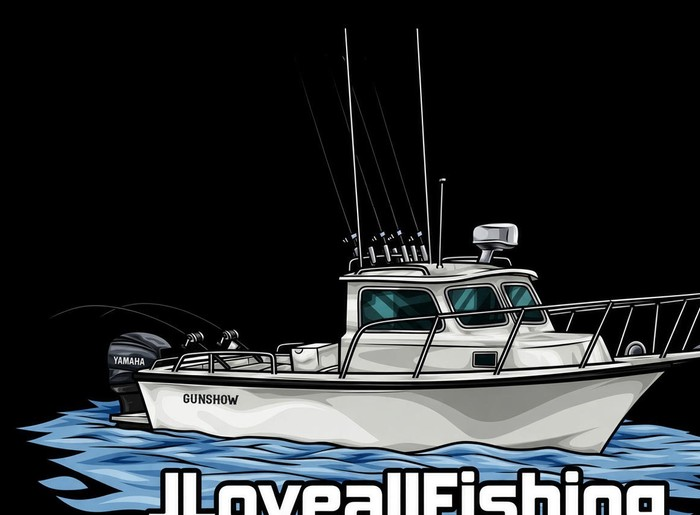
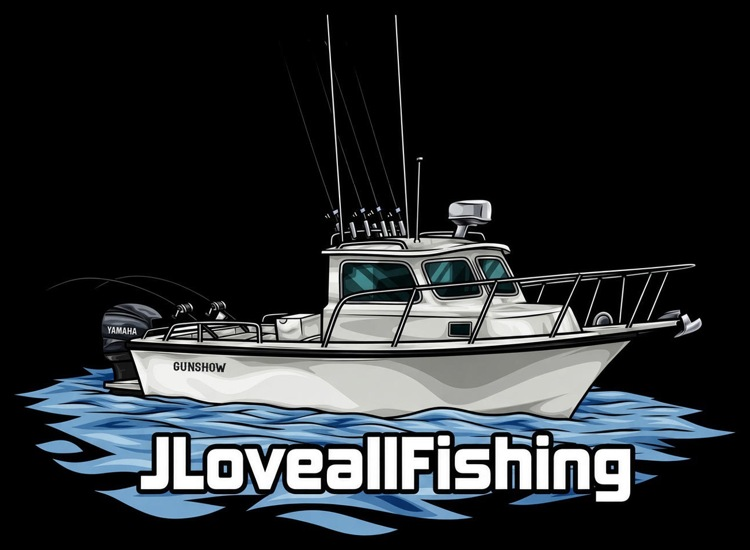
Add files via upload

diff --git a/index.html b/index.html
@@ -1,2 +1,3 @@
-<!doctype html><html lang="en"><meta charset="utf-8"><meta name="viewport" content="width=device-width, initial-scale=1"><link rel="manifest" href="manifest.webmanifest"><link rel="apple-touch-icon" href="icon-192.png?v=5"><link rel="icon" href="icon-192.png?v=5"><meta name="apple-mobile-web-app-title" content="MarineCast"><meta name="theme-color" content="#081c2b"><meta name="apple-mobile-web-app-capable" content="yes"><title>JLoveallFishing MarineCast</title><style> *{box-sizing:border-box}body{margin:0;background:#081c2b;color:#eaf5fa;font:16px system-ui}main{max-width:900px;margin:auto;padding:24px}h1{font-size:28px;margin:0}p{color:#a9c4d2;line-height:1.5}section{background:#112e40;border:1px solid #25495c;border-radius:16px;padding:18px;margin:14px 0}label{display:block;margin:10px 0 4px}select,input,button{font:inherit;border-radius:8px;padding:12px;border:1px solid #426577;background:#0b2232;color:white;width:100%}button{background:#087e91;font-weight:bold;margin-top:12px;cursor:pointer}a{color:#82e0ed}h2{font-size:19px;margin-top:0}.grid{display:grid;grid-template-columns:repeat(auto-fit,minmax(130px,1fr));gap:12px}.metric{background:#0b2232;padding:12px;border-radius:10px}.metric b{display:block;font-size:23px;margin:5px 0}table{width:100%;border-collapse:collapse;font-size:14px}td,th{text-align:left;padding:9px 4px;border-bottom:1px solid #315063}svg{width:100%;height:auto}.muted{color:#a9c4d2;font-size:13px}.warn{color:#ffd49a} input,select,.grid>div{min-width:0;max-width:100%}input[type=date],input[type=time]{appearance:none;-webkit-appearance:none;display:block}section{min-width:0;overflow-wrap:anywhere}table{font-size:clamp(11px,3.2vw,14px)}@media(max-width:480px){main{padding:14px}section{padding:13px}.grid{grid-template-columns:repeat(2,minmax(0,1fr))}} .nav{position:sticky;top:0;z-index:1000;display:flex;gap:6px;background:#081c2b;padding:8px 0;overflow:auto}.nav a{white-space:nowrap;font-size:13px;padding:9px;text-decoration:none;background:#112e40;border-radius:8px}section{scroll-margin-top:65px} .brand{text-align:center}.brand img{display:block;width:min(100%,330px);height:auto;margin:0 auto 8px;border-radius:12px}.brand p{margin:4px 0}.metric b{overflow-wrap:anywhere}</style><main><header class="brand"><img src="brand.jpg" alt="JLoveallFishing boat logo"><h1>Marine<span style="color:#64d7df">Cast</span></h1><p>Wind. Tides. Currents. Fish smarter.</p></header><p>Bay & Delta fishing conditions • Pacific time • Version 0.5 • Live-source prototype</p><nav class="nav"><a href="#overview">Home</a><a href="#locations">Map</a><a href="#tides">Tides</a><a href="#currents">Currents</a><a href="#forecast">Weather</a></nav><section id="overview"><h2>Trip overview</h2><div id="summary" class="grid">Loading…</div><p class="muted">Forecasts, not safety ratings.</p></section><section id="locations"><div id="map" style="height:310px;border-radius:12px;background:#0b2232"></div><p class="muted">Select a marker or use the location list. Map is for planning, not navigation.</p><label for="spot">Fishing area</label><select id="spot"></select><button id="favorite" type="button">Save favorite</button><div id="favorites"></div><label for="day">Trip date</label><input id="day" type="date"><label for="current">NOAA current prediction station</label><select id="current"><option value="">Choose a station after loading</option></select><div class="grid"><div><label for="start">Trip starts</label><input type="time" id="start" value="06:00"></div><div><label for="end">Trip ends</label><input type="time" id="end" value="14:00"></div><div><label for="limit">Wind preference (mph)</label><input type="number" id="limit" min="1" max="100" value="17"></div></div><button id="load">Refresh conditions</button><p class="muted" id="status" aria-live="polite"></p></section><section id="tides"><h2>Tides · NOAA predictions</h2><div id="tide">Loading…</div></section><section id="currents"><h2>Currents · NOAA predictions</h2><div id="flow">Loading…</div></section><section id="forecast"><h2>Wind & weather · NWS forecast</h2><div id="weather">Loading…</div></section><section><h2>Trip wind preference check</h2><div id="trip">Loading…</div><p class="muted">Not a safety rating. Does not account for swell, vessel limits or wind against current.</p><a href="https://www.windy.com/" target="_blank" rel="noopener">Open Windy for comparison</a></section><section><h2>Official weather alerts</h2><div id="alerts">Loading…</div><p><a href="https://www.weather.gov/mtr/">NWS Bay Area marine forecasts</a> · <a href="https://tidesandcurrents.noaa.gov/">NOAA station maps</a></p></section><p class="warn">Planning aid only. Predictions are not observed conditions. Station readings may differ from your fishing spot. Check official marine forecasts and conditions before departure; missing data does not mean safe conditions.</p></main><link rel="stylesheet" href="https://unpkg.com/leaflet@1.9.4/dist/leaflet.css"><script src="https://unpkg.com/leaflet@1.9.4/dist/leaflet.js"></script><script>
-const $=id=>document.getElementById(id), spots=[['Richmond',37.928,-122.4,'9414863'],['San Francisco / Central Bay',37.807,-122.465,'9414290'],['Golden Gate',37.819,-122.478,''],['San Pablo Bay',38.06,-122.38,''],['Carquinez Strait / Benicia',38.05,-122.16,''],['Suisun Bay',38.08,-122.03,''],['Rio Vista',38.155,-121.69,''],['Sherman Island',38.06,-121.74,''],['Berkeley Flats',37.86,-122.35,''],['Angel Island',37.86,-122.43,''],['Alcatraz',37.827,-122.423,''],['Sacramento River near Collinsville',38.08,-121.85,''],['San Joaquin River near Antioch',38.02,-121.80,'']];const tz='America/Los_Angeles',fmt=new Intl.DateTimeFormat('en-CA',{timeZone:tz,year:'numeric',month:'2-digit',day:'2-digit'}),time=new Intl.DateTimeFormat('en-US',{timeZone:tz,hour:'numeric',minute:'2-digit'});function dateKey(d){let p=Object.fromEntries(fmt.formatToParts(d).map(x=>[x.type,x.value]));return `${p.year}-${p.month}-${p.day}`} const esc=x=>String(x??'—').replace(/[&<>"']/g,c=>({'&':'&amp;','<':'&lt;','>':'&gt;','"':'&quot;',"'":'&#39;'}[c]));$('spot').innerHTML=spots.map((s,i)=>`<option value="${i}">${s[0]}</option>`).join('');$('day').value=dateKey(new Date());$('day').min=dateKey(new Date());$('day').max=dateKey(new Date(Date.now()+6*864e5));const meta='https://api.tidesandcurrents.noaa.gov/mdapi/prod/webapi/stations.json',api='https://api.tidesandcurrents.noaa.gov/api/prod/datagetter';async function get(url){const r=await fetch(url,{signal:AbortSignal.timeout(18000)});if(!r.ok)throw Error('HTTP '+r.status);const j=await r.json();if(j.error)throw Error(j.error.message||'Source error');return j}function nearest(stations,s){return stations.filter(a=>Number.isFinite(+a.lat)&&Number.isFinite(+a.lng)&&a.lat!=null&&a.lng!=null).map(a=>({...a,dist:Math.hypot((+a.lat-s[1])*69,(+a.lng-s[2])*54)})).sort((a,b)=>a.dist-b.dist)}function clock(s){const m=String(s).match(/(\d{2}):(\d{2})/);if(!m)return s;const h=+m[1];return (h%12||12)+':'+m[2]+(h<12?' AM':' PM')}function table(headers,rows){return '<table><thead><tr>'+headers.map(x=>`<th>${esc(x)}</th>`).join('')+'</tr></thead><tbody>'+rows.map(r=>'<tr>'+r.map(x=>`<td>${esc(x)}</td>`).join('')+'</tr>').join('')+'</tbody></table>'}function no(e){return `<p class="warn">Unavailable: ${esc(e.message||e)}. Check the official source.</p>`}function mphCurrent(r){const v=r.Velocity_Major??r.Velocity;return v==null||v===''||!Number.isFinite(Number(v))?'—':(Number(v)*1.150779448).toFixed(2)}let tm,cm,run=0;async function load(){const token=++run,s=spots[+$('spot').value],day=$('day').value,d=day.replaceAll('-','');for(const id of ['tide','flow','weather','alerts','trip','summary'])$(id).textContent='Loading from official source…';$('status').textContent='Fetching '+s[0]+'…';const put=(id,v)=>{if(token===run)$(id).innerHTML=v};const query=(station,product,extra)=>api+'?'+new URLSearchParams({station,product,begin_date:d,end_date:d,time_zone:'lst_ldt',units:'english',format:'json',application:'JLoveallFishingMarineCast',...extra});await Promise.allSettled([ (async()=>{try{let station=s[3],label=s[0];if(!station){tm??=get(meta+'?type=tidepredictions').catch(e=>{tm=null;throw e});const a=nearest((await tm).stations||[],s)[0];if(!a||a.dist>20)throw Error('No nearby tide station within 20 miles');station=a.id;label=a.name+' (~'+a.dist.toFixed(1)+' mi away)'}const j=await get(query(station,'predictions',{datum:'MLLW',interval:'hilo'}));if(!j.predictions?.length)throw Error('No predictions');put('tide',`<p>${esc(label)} · ${esc(station)} · feet above MLLW</p>`+table(['Pacific time','Tide','Height'],j.predictions.map(a=>[clock(a.t),a.type==='H'?'High':'Low',a.v+' ft']))+chart(j.predictions.map(a=>[a.t,Number(a.v)]),'ft','High/low event trend (not continuous tide curve)')+`<p><a href="https://tidesandcurrents.noaa.gov/noaatidepredictions.html?id=${encodeURIComponent(station)}">Official tide station</a></p>`)}catch(e){put('tide',no(e))}})(),(async()=>{try{cm??=get(meta+'?type=currentpredictions').catch(e=>{cm=null;throw e});const list=nearest((await cm).stations||[],s).filter(a=>a.dist<=20).slice(0,12);if(token!==run)return;const previous=$('current').selectedOptions[0]?.dataset.station;$('current').innerHTML='<option value="">Select nearby current station</option>'+list.map((a,i)=>`<option value="${i}" data-station="${esc(a.id)}">${esc(a.name)} (~${a.dist.toFixed(1)} mi)</option>`).join('');const prevIndex=list.findIndex(a=>a.id===previous);if(prevIndex>=0)$('current').value=String(prevIndex);const a=list[+$('current').value];if($('current').value===''||!a){put('flow','<p>Select a current station above, then refresh. Tide height and current speed are separate predictions.</p>');return}const extra={interval:'MAX_SLACK'};if(a.currbin!=null)extra.bin=a.currbin;const j=await get(query(a.id,'currents_predictions',extra));const rows=j.current_predictions?.cp;if(!rows?.length)throw Error('No current predictions for this station/bin');put('flow',`<p>${esc(a.name)} · ${esc(a.id)} · ${a.dist.toFixed(1)} mi away · bin ${esc(extra.bin??'source default')}</p>`+table(['Pacific time','Event','Velocity (mph)'],rows.map(r=>[clock(r.Time),r.Type??'Prediction',mphCurrent(r)]))+chart(rows.map(r=>[r.Time,Number(mphCurrent(r))]),'mph','Current event trend (not continuous prediction)'))}catch(e){put('flow',no(e))}})(),(async()=>{try{const p=await get(`https://api.weather.gov/points/${s[1]},${s[2]}`);const grid=await get(p.properties.forecastGridData),g=grid.properties;function at(field,t){return field?.values?.find(v=>{let [start,dur]=v.validTime.split('/'),m=dur.match(/^P(?:(\d+)D)?(?:T(?:(\d+)H)?(?:(\d+)M)?)?$/);if(!m)return false;let st=Date.parse(start),end=st+((+(m[1]||0)*24+ +(m[2]||0))*60+ +(m[3]||0))*60000;return t>=st&&t<end})?.value}function unit(field,v){if(v==null)return '—';const u=field?.uom||'';if(u.endsWith('km_h-1'))return Math.round(v*0.621371)+' mph';if(u.endsWith('m_s-1'))return Math.round(v*2.236936)+' mph';if(u.endsWith(':m'))return (v*3.28084).toFixed(1)+' ft';if(u.endsWith(':kt')||u.endsWith(':kn'))return Math.round(v*1.150779448)+' mph';if(u.endsWith('degC'))return Math.round(v*9/5+32)+' °F';if(u.endsWith('degree_(angle)'))return ['N','NNE','NE','ENE','E','ESE','SE','SSE','S','SSW','SW','WSW','W','WNW','NW','NNW'][Math.round(v/22.5)%16]+' '+v+'°';return v+' '+u.split(':').pop()}const hours=[],trip=[];for(let t=Date.parse(day+'T00:00:00Z');t<Date.parse(day+'T00:00:00Z')+36*3600000;t+=3600000){const dt=new Date(t);if(dateKey(dt)!==day)continue;const parts=new Intl.DateTimeFormat('en-GB',{timeZone:tz,hour:'2-digit',minute:'2-digit',hourCycle:'h23'}).format(dt);if(parts >= $('start').value && parts <= $('end').value){const w=unit(g.windSpeed,at(g.windSpeed,t)), gust=unit(g.windGust,at(g.windGust,t));trip.push([w,gust]);}hours.push([time.format(dt),unit(g.windSpeed,at(g.windSpeed,t)),unit(g.windGust,at(g.windGust,t)),unit(g.windDirection,at(g.windDirection,t)),unit(g.temperature,at(g.temperature,t)),unit(g.waveHeight,at(g.waveHeight,t))])}const peak=(i)=>{const a=trip.map(r=>r[i]).filter(v=>v.endsWith(' mph')).map(parseFloat);return a.length?Math.max(...a)+' mph':'Unavailable'};put('summary',`<div class="metric">Peak wind<b>${peak(0)}</b></div><div class="metric">Peak gust<b>${peak(1)}</b></div><div class="metric">Location<b>${esc(s[0])}</b></div><div class="metric">Trip date<b>${esc(new Date(day+'T12:00:00Z').toLocaleDateString('en-US',{timeZone:'UTC',month:'short',day:'numeric',year:'numeric'}))}</b></div>`);const lim=Number($('limit').value),vals=trip.flat().filter(v=>v.endsWith(' mph')).map(parseFloat),missing=trip.length*2-vals.length;put('trip',!trip.length||!vals.length?'No matching trip forecast available.':`<p>Peak reported wind or gust: <b>${Math.max(...vals)} mph</b> · Your preference: ${lim} mph</p><p class="warn">${Math.max(...vals)>lim?'Above your wind preference': 'Reported values within preference'}${missing?' · '+missing+' wind/gust readings missing':''}. Not a boating safety determination.</p>`);put('weather',`<p>Forecast grid ${esc(p.properties.gridId)} ${esc(p.properties.gridX)},${esc(p.properties.gridY)} · missing values shown as —</p>`+chart(hours.map((r,i)=>[i,parseFloat(r[1])]),'mph','Hourly wind trend (reported forecast values)')+chart(hours.map((r,i)=>[i,parseFloat(r[2])]),'mph','Hourly gust trend (reported forecast values)')+table(['Time','Wind','Gust','From','Air','Wave'],hours))}catch(e){put('weather',no(e));put('trip',no(e));put('summary',no(e))}})(),(async()=>{try{const j=await get(`https://api.weather.gov/alerts/active?point=${s[1]},${s[2]}`);put('alerts',j.features?.length?j.features.map(a=>`<p class="warn"><b>${esc(a.properties.event)}</b><br>${esc(a.properties.headline)}</p>`).join(''):'<p>No active alerts returned for this point at retrieval time. This does not establish safe conditions.</p>')}catch(e){put('alerts',no(e))}})()]);if(token===run)$('status').textContent='Requests completed '+time.format(new Date())+' PT. Check each panel for availability.'} function chart(rows,unit,label){const a=rows.filter(r=>Number.isFinite(r[1]));if(a.length<2)return '';const lo=Math.min(0,...a.map(r=>r[1])),hi=Math.max(lo+1,...a.map(r=>r[1]));const ts=a.map(r=>typeof r[0]==='number'?NaN:Date.parse(String(r[0]).replace(' ','T')+'Z'));const valid=ts.every(Number.isFinite)&&ts.at(-1)>ts[0];const x=i=>45+270*(valid?(ts[i]-ts[0])/(ts.at(-1)-ts[0]):i/(a.length-1)),y=v=>110-85*(v-lo)/(hi-lo);return `<p class="muted">${esc(label)}</p><svg viewBox="0 0 340 135" role="img" aria-label="${esc(label)}"><line x1="45" y1="${y(0)}" x2="315" y2="${y(0)}" stroke="#658698" stroke-dasharray="4 4"/><text x="0" y="25" fill="#a9c4d2" font-size="10">${hi.toFixed(1)} ${unit}</text><text x="0" y="110" fill="#a9c4d2" font-size="10">${lo.toFixed(1)}</text><polyline fill="none" stroke="#64d7df" stroke-width="2" stroke-dasharray="4 3" points="${a.map((r,i)=>x(i)+','+y(r[1])).join(' ')}"/>${a.map((r,i)=>`<circle cx="${x(i)}" cy="${y(r[1])}" r="4" fill="#64d7df"><title>${esc(r[0])}: ${r[1]} ${unit}</title></circle>`).join('')}</svg>`}let fav=[];try{fav=JSON.parse(localStorage.getItem('marineIQfavorites')||'[]');if(!Array.isArray(fav))fav=[]}catch{}function renderFav(){$('favorites').replaceChildren();for(const i of fav){if(!spots[i])continue;const b=document.createElement('button');b.textContent=spots[i][0];b.onclick=()=>{$('spot').value=i;$('spot').onchange()};$('favorites').append(b)}$('favorite').textContent=fav.includes(+$('spot').value)?'Remove favorite':'Save favorite'}$('favorite').onclick=()=>{const i=+$('spot').value;fav=fav.includes(i)?fav.filter(x=>x!==i):[...fav,i];try{localStorage.setItem('marineIQfavorites',JSON.stringify(fav))}catch{}renderFav()};renderFav();let map;if(window.L){map=L.map('map').setView([38,-122.1],9);L.tileLayer('https://tile.openstreetmap.org/{z}/{x}/{y}.png',{maxZoom:19,attribution:'&copy; OpenStreetMap contributors'}).addTo(map);spots.forEach((s,i)=>L.marker([s[1],s[2]]).addTo(map).bindTooltip(s[0]).on('click',()=>{$('spot').value=i;$('spot').onchange()}))}else $('map').textContent='Map unavailable; use the location list.';$('load').onclick=load;$('spot').onchange=()=>{$('current').value='';renderFav();if(map)map.panTo(spots[+$('spot').value].slice(1,3));load()};$('day').onchange=load;$('current').onchange=load;load();</script><script>if("serviceWorker" in navigator && location.protocol === "https:"){navigator.serviceWorker.register("./sw.js").catch(console.warn)}</script></html>
+<!doctype html><html lang="en"><meta charset="utf-8"><meta name="viewport" content="width=device-width, initial-scale=1"><link rel="manifest" href="manifest.webmanifest"><link rel="apple-touch-icon" href="icon-192.png?v=5"><link rel="icon" href="icon-192.png?v=5"><meta name="apple-mobile-web-app-title" content="MarineCast"><meta name="theme-color" content="#081c2b"><meta name="apple-mobile-web-app-capable" content="yes"><title>JLoveallFishing MarineCast</title><style> *{box-sizing:border-box}body{margin:0;background:#081c2b;color:#eaf5fa;font:16px system-ui}main{max-width:900px;margin:auto;padding:18px}h1{font-size:28px;margin:0}p{color:#a9c4d2;line-height:1.5}section{background:#112e40;border:1px solid #25495c;border-radius:16px;padding:18px;margin:14px 0}label{display:block;margin:10px 0 4px}select,input,button{font:inherit;border-radius:8px;padding:12px;border:1px solid #426577;background:#0b2232;color:white;width:100%}button{background:#087e91;font-weight:bold;margin-top:12px;cursor:pointer}a{color:#82e0ed}h2{font-size:19px;margin-top:0}.grid{display:grid;grid-template-columns:repeat(auto-fit,minmax(130px,1fr));gap:12px}.metric{background:#0b2232;padding:12px;border-radius:10px}.metric b{display:block;font-size:23px;margin:5px 0}table{width:100%;border-collapse:collapse;font-size:14px}td,th{text-align:left;padding:9px 4px;border-bottom:1px solid #315063}svg{width:100%;height:auto}.muted{color:#a9c4d2;font-size:13px}.warn{color:#ffd49a} input,select,.grid>div{min-width:0;max-width:100%}input[type=date],input[type=time]{appearance:none;-webkit-appearance:none;display:block}section{min-width:0;overflow-wrap:anywhere}table{font-size:clamp(11px,3.2vw,14px)}@media(max-width:480px){main{padding:14px}section{padding:13px}.grid{grid-template-columns:repeat(2,minmax(0,1fr))}} .nav{position:sticky;top:0;z-index:1000;display:flex;gap:6px;background:#081c2b;padding:8px 0;overflow:auto}.nav a{white-space:nowrap;font-size:13px;padding:9px;text-decoration:none;background:#112e40;border-radius:8px}section{scroll-margin-top:65px} .brand{text-align:center}.brand img{display:block;width:min(100%,260px);height:auto;object-fit:contain;mix-blend-mode:screen;margin:0 auto 8px;border-radius:12px}.brand p{margin:4px 0}.metric b{overflow-wrap:anywhere}</style><main><header class="brand"><img src="brand.jpg?v=6" alt="JLoveallFishing boat logo"><h1>Marine<span style="color:#64d7df">Cast</span></h1><p>Wind. Tides. Currents. Fish smarter.</p></header><p>Bay & Delta fishing conditions • Pacific time • Version 0.6 • Live-source prototype</p><nav class="nav"><a href="#overview">Home</a><a href="#locations">Map</a><a href="#tides">Tides</a><a href="#currents">Currents</a><a href="#forecast">Weather</a><a href="#week">7 days</a><a href="#water">Water</a></nav><section id="overview"><h2>Trip overview</h2><div id="summary" class="grid">Loading…</div><p class="muted">Forecasts, not safety ratings.</p></section><section id="locations"><div id="map" style="height:310px;border-radius:12px;background:#0b2232"></div><p class="muted">Select a marker or use the location list. Map is for planning, not navigation.</p><label for="spot">Fishing area</label><select id="spot"></select><button id="favorite" type="button">Save favorite</button><div id="favorites"></div><label for="day">Trip date</label><input id="day" type="date"><label for="current">NOAA current prediction station</label><select id="current"><option value="">Choose a station after loading</option></select><div class="grid"><div><label for="start">Trip starts</label><input type="time" id="start" value="06:00"></div><div><label for="end">Trip ends</label><input type="time" id="end" value="14:00"></div><div><label for="limit">Wind preference (mph)</label><input type="number" id="limit" min="1" max="100" value="17"></div></div><button id="load">Refresh conditions</button><p class="muted" id="status" aria-live="polite"></p></section><section id="week"><h2>Seven-day trip forecast</h2><div id="weekly">Loading…</div><p class="muted">Peak available hourly values during your selected trip hours; partial days are labeled.</p></section><section id="water"><h2>Water observations · NOAA</h2><div id="waterdata">Loading…</div><p class="muted">Latest station observations, not predictions for your selected trip date.</p></section><section id="astro"><h2>Sun & moon</h2><div id="astrodata">Loading…</div></section><section id="tides"><h2>Tides · NOAA predictions</h2><div id="tide">Loading…</div></section><section id="currents"><h2>Currents · NOAA predictions</h2><div id="flow">Loading…</div><div id="opposition"></div></section><section id="forecast"><h2>Wind & weather · NWS forecast</h2><div id="weather">Loading…</div></section><section><h2>Trip wind preference check</h2><div id="trip">Loading…</div><p class="muted">Not a safety rating. Does not account for swell or vessel limits; see separate current-direction check.</p><a href="https://www.windy.com/" target="_blank" rel="noopener">Open Windy for comparison</a></section><section><h2>Official weather alerts</h2><div id="alerts">Loading…</div><p><a href="https://www.weather.gov/mtr/">NWS Bay Area marine forecasts</a> · <a href="https://tidesandcurrents.noaa.gov/">NOAA station maps</a></p></section><p class="warn">Planning aid only. Predictions are not observed conditions. Station readings may differ from your fishing spot. Check official marine forecasts and conditions before departure; missing data does not mean safe conditions.</p></main><link rel="stylesheet" href="https://unpkg.com/leaflet@1.9.4/dist/leaflet.css"><script src="https://unpkg.com/leaflet@1.9.4/dist/leaflet.js"></script><script>
+const $=id=>document.getElementById(id), spots=[['Richmond',37.928,-122.4,'9414863'],['San Francisco / Central Bay',37.807,-122.465,'9414290'],['Golden Gate',37.819,-122.478,''],['San Pablo Bay',38.06,-122.38,''],['Carquinez Strait / Benicia',38.05,-122.16,''],['Suisun Bay',38.08,-122.03,''],['Rio Vista',38.155,-121.69,''],['Sherman Island',38.06,-121.74,''],['Berkeley Flats',37.86,-122.35,''],['Angel Island',37.86,-122.43,''],['Alcatraz',37.827,-122.423,''],['Sacramento River near Collinsville',38.08,-121.85,''],['San Joaquin River near Antioch',38.02,-121.80,'']];const tz='America/Los_Angeles',fmt=new Intl.DateTimeFormat('en-CA',{timeZone:tz,year:'numeric',month:'2-digit',day:'2-digit'}),time=new Intl.DateTimeFormat('en-US',{timeZone:tz,hour:'numeric',minute:'2-digit'});function dateKey(d){let p=Object.fromEntries(fmt.formatToParts(d).map(x=>[x.type,x.value]));return `${p.year}-${p.month}-${p.day}`} const esc=x=>String(x??'—').replace(/[&<>"']/g,c=>({'&':'&amp;','<':'&lt;','>':'&gt;','"':'&quot;',"'":'&#39;'}[c]));$('spot').innerHTML=spots.map((s,i)=>`<option value="${i}">${s[0]}</option>`).join('');$('day').value=dateKey(new Date());$('day').min=dateKey(new Date());$('day').max=dateKey(new Date(Date.now()+6*864e5));const meta='https://api.tidesandcurrents.noaa.gov/mdapi/prod/webapi/stations.json',api='https://api.tidesandcurrents.noaa.gov/api/prod/datagetter';async function get(url){const r=await fetch(url,{signal:AbortSignal.timeout(18000)});if(!r.ok)throw Error('HTTP '+r.status);const j=await r.json();if(j.error)throw Error(j.error.message||'Source error');return j}function nearest(stations,s){return stations.filter(a=>Number.isFinite(+a.lat)&&Number.isFinite(+a.lng)&&a.lat!=null&&a.lng!=null).map(a=>({...a,dist:Math.hypot((+a.lat-s[1])*69,(+a.lng-s[2])*54)})).sort((a,b)=>a.dist-b.dist)}function clock(s){const m=String(s).match(/(\d{2}):(\d{2})/);if(!m)return s;const h=+m[1];return (h%12||12)+':'+m[2]+(h<12?' AM':' PM')}function table(headers,rows){return '<table><thead><tr>'+headers.map(x=>`<th>${esc(x)}</th>`).join('')+'</tr></thead><tbody>'+rows.map(r=>'<tr>'+r.map(x=>`<td>${esc(x)}</td>`).join('')+'</tr>').join('')+'</tbody></table>'}function no(e){return `<p class="warn">Unavailable: ${esc(e.message||e)}. Check the official source.</p>`}function mphCurrent(r){const v=r.Velocity_Major??r.Velocity;return v==null||v===''||!Number.isFinite(Number(v))?'—':(Number(v)*1.150779448).toFixed(2)}let tm,cm,run=0;async function load(){const token=++run,s=spots[+$('spot').value],day=$('day').value,d=day.replaceAll('-','');for(const id of ['tide','flow','weather','alerts','trip','summary','weekly','waterdata','astrodata','opposition'])$(id).textContent='Loading from official source…';$('status').textContent='Fetching '+s[0]+'…';const put=(id,v)=>{if(token===run)$(id).innerHTML=v};const query=(station,product,extra)=>api+'?'+new URLSearchParams({station,product,begin_date:d,end_date:d,time_zone:'lst_ldt',units:'english',format:'json',application:'JLoveallFishingMarineCast',...extra});let flowSamples=[],weatherSamples=[],currentMeta=null; function checkOpposition(){if(token!==run)return;const hits=[];for(const w of weatherSamples){if(!Number.isFinite(w.dir)||!Number.isFinite(w.speed)||w.speed<=0)continue;const c=flowSamples.find(c=>String(c.Time).slice(11,16)===w.hh);if(!c)continue;const v=Number(mphCurrent(c));if(!Number.isFinite(v)||Math.abs(v)<0.05)continue;const direct=c.Direction??c.Dir??(v>0?currentMeta?.floodDirection:currentMeta?.ebbDirection);if(direct==null||direct===''||!Number.isFinite(Number(direct)))continue;const angle=Math.abs(((Number(direct)-w.dir+540)%360)-180);if(angle<=45)hits.push(clock(w.hh));}put('opposition',hits.length?'<p class="warn">Potential opposing wind/current: '+esc(hits.join(', '))+'. Local chop may increase; not a safety assessment.</p>':'<p class="muted">No opposing periods identified from matched directional data; incomplete direction coverage may prevent assessment. Not a safety clearance.</p>')} await Promise.allSettled([extraWater(s,put),extraAstro(s,day,put), (async()=>{try{let station=s[3],label=s[0];if(!station){tm??=get(meta+'?type=tidepredictions').catch(e=>{tm=null;throw e});const a=nearest((await tm).stations||[],s)[0];if(!a||a.dist>20)throw Error('No nearby tide station within 20 miles');station=a.id;label=a.name+' (~'+a.dist.toFixed(1)+' mi away)'}const j=await get(query(station,'predictions',{datum:'MLLW',interval:'hilo'}));if(!j.predictions?.length)throw Error('No predictions');let detail='';try{const q=await get(query(station,'predictions',{datum:'MLLW',interval:'6'}));detail=seriesChart((q.predictions||[]).map(a=>[a.t,Number(a.v)]),'ft','NOAA 6-minute tide predictions')}catch(e){detail='<p class="muted">Continuous predictions unavailable at this station; high/low events remain available.</p>'}put('tide',`<p>${esc(label)} · ${esc(station)} · feet above MLLW</p>`+table(['Pacific time','Tide','Height'],j.predictions.map(a=>[clock(a.t),a.type==='H'?'High':'Low',a.v+' ft']))+detail+`<p><a href="https://tidesandcurrents.noaa.gov/noaatidepredictions.html?id=${encodeURIComponent(station)}">Official tide station</a></p>`)}catch(e){put('tide',no(e))}})(),(async()=>{try{cm??=get(meta+'?type=currentpredictions').catch(e=>{cm=null;throw e});const list=nearest((await cm).stations||[],s).filter(a=>a.dist<=20).slice(0,12);if(token!==run)return;const previous=$('current').selectedOptions[0]?.dataset.station;$('current').innerHTML='<option value="">Select nearby current station</option>'+list.map((a,i)=>`<option value="${i}" data-station="${esc(a.id)}">${esc(a.name)} (~${a.dist.toFixed(1)} mi)</option>`).join('');const prevIndex=list.findIndex(a=>a.id===previous);if(prevIndex>=0)$('current').value=String(prevIndex);const a=list[+$('current').value];if($('current').value===''||!a){put('flow','<p>Select a current station above, then refresh. Tide height and current speed are separate predictions.</p>');put('opposition','');return}const extra={interval:'MAX_SLACK'};if(a.currbin!=null)extra.bin=a.currbin;const j=await get(query(a.id,'currents_predictions',extra));const rows=j.current_predictions?.cp;if(!rows?.length)throw Error('No current predictions for this station/bin');let detail='';currentMeta=a;try{const q=await get(query(a.id,'currents_predictions',{...extra,interval:'6'}));flowSamples=q.current_predictions?.cp||[];detail=seriesChart(flowSamples.map(r=>[r.Time,Number(mphCurrent(r))]),'mph','NOAA 6-minute current predictions');if(!detail)throw Error('No interval readings')}catch(e){detail='<p class="muted">Continuous current predictions unavailable at this station/bin.</p>'}checkOpposition();put('flow',`<p>${esc(a.name)} · ${esc(a.id)} · ${a.dist.toFixed(1)} mi away · bin ${esc(extra.bin??'source default')}</p>`+table(['Pacific time','Event','Velocity (mph)'],rows.map(r=>[clock(r.Time),r.Type??'Prediction',mphCurrent(r)]))+detail)}catch(e){put('flow',no(e))}})(),(async()=>{try{const p=await get(`https://api.weather.gov/points/${s[1]},${s[2]}`);const grid=await get(p.properties.forecastGridData),g=grid.properties;function at(field,t){return field?.values?.find(v=>{let [start,dur]=v.validTime.split('/'),m=dur.match(/^P(?:(\d+)D)?(?:T(?:(\d+)H)?(?:(\d+)M)?)?$/);if(!m)return false;let st=Date.parse(start),end=st+((+(m[1]||0)*24+ +(m[2]||0))*60+ +(m[3]||0))*60000;return t>=st&&t<end})?.value}function unit(field,v){if(v==null)return '—';const u=field?.uom||'';if(u.endsWith('km_h-1'))return Math.round(v*0.621371)+' mph';if(u.endsWith('m_s-1'))return Math.round(v*2.236936)+' mph';if(u.endsWith(':m'))return (v*3.28084).toFixed(1)+' ft';if(u.endsWith(':kt')||u.endsWith(':kn'))return Math.round(v*1.150779448)+' mph';if(u.endsWith('degC'))return Math.round(v*9/5+32)+' °F';if(u.endsWith('degree_(angle)'))return ['↓','↙','←','↖','↑','↗','→','↘'][Math.round(v/45)%8]+' '+['N','NNE','NE','ENE','E','ESE','SE','SSE','S','SSW','SW','WSW','W','WNW','NW','NNW'][Math.round(v/22.5)%16]+' '+v+'°';return v+' '+u.split(':').pop()}const hours=[],trip=[];for(let t=Date.parse(day+'T00:00:00Z');t<Date.parse(day+'T00:00:00Z')+36*3600000;t+=3600000){const dt=new Date(t);if(dateKey(dt)!==day)continue;const parts=new Intl.DateTimeFormat('en-GB',{timeZone:tz,hour:'2-digit',minute:'2-digit',hourCycle:'h23'}).format(dt);if(parts >= $('start').value && parts <= $('end').value){const w=unit(g.windSpeed,at(g.windSpeed,t)), gust=unit(g.windGust,at(g.windGust,t));trip.push([w,gust]);}if(parts >= $('start').value && parts <= $('end').value)weatherSamples.push({hh:parts,dir:at(g.windDirection,t),speed:at(g.windSpeed,t)});hours.push([time.format(dt),unit(g.windSpeed,at(g.windSpeed,t)),unit(g.windGust,at(g.windGust,t)),unit(g.windDirection,at(g.windDirection,t)),unit(g.temperature,at(g.temperature,t)),at(g.waveHeight,t)===0?'0*':unit(g.waveHeight,at(g.waveHeight,t))])}checkOpposition();const week=[];const today=dateKey(new Date());for(let i=0;i<7;i++){const k=new Date(Date.parse(today+'T12:00:00Z')+i*864e5).toISOString().slice(0,10),a=[],b=[];let count=0;for(let t=Date.parse(k+'T00:00:00Z');t<Date.parse(k+'T00:00:00Z')+36*3600000;t+=3600000){const dt=new Date(t),hh=new Intl.DateTimeFormat('en-GB',{timeZone:tz,hour:'2-digit',minute:'2-digit',hourCycle:'h23'}).format(dt);if(dateKey(dt)!==k||hh<$('start').value||hh>$('end').value)continue;count++;const w=unit(g.windSpeed,at(g.windSpeed,t)),v=unit(g.windGust,at(g.windGust,t));if(w.endsWith(' mph'))a.push(parseFloat(w));if(v.endsWith(' mph'))b.push(parseFloat(v));}week.push([new Date(k+'T12:00:00Z').toLocaleDateString('en-US',{timeZone:'UTC',weekday:'short',month:'numeric',day:'numeric'}),a.length?Math.max(...a)+' mph':'—',b.length?Math.max(...b)+' mph':'—',count&&a.length===count&&b.length===count?'Complete':a.length||b.length?'Partial':'Unavailable']);}put('weekly',table(['Day','Wind','Gust','Coverage'],week));const peak=(i)=>{const a=trip.map(r=>r[i]).filter(v=>v.endsWith(' mph')).map(parseFloat);return a.length?Math.max(...a)+' mph':'Unavailable'};put('summary',`<div class="metric">Peak wind<b>${peak(0)}</b></div><div class="metric">Peak gust<b>${peak(1)}</b></div><div class="metric">Location<b>${esc(s[0])}</b></div><div class="metric">Trip date<b>${esc(new Date(day+'T12:00:00Z').toLocaleDateString('en-US',{timeZone:'UTC',month:'short',day:'numeric',year:'numeric'}))}</b></div>`);const lim=Number($('limit').value),vals=trip.flat().filter(v=>v.endsWith(' mph')).map(parseFloat),missing=trip.length*2-vals.length;put('trip',!trip.length||!vals.length?'No matching trip forecast available.':`<p>Peak reported wind or gust: <b>${Math.max(...vals)} mph</b> · Your preference: ${lim} mph</p><p class="warn">${Math.max(...vals)>lim?'Above your wind preference': 'Reported values within preference'}${missing?' · '+missing+' wind/gust readings missing':''}. Not a boating safety determination.</p>`);put('weather',`<p>Forecast grid ${esc(p.properties.gridId)} ${esc(p.properties.gridX)},${esc(p.properties.gridY)} · missing values shown as —</p>`+chart(hours.map((r,i)=>[i,parseFloat(r[1])]),'mph','Hourly wind trend (reported forecast values)')+chart(hours.map((r,i)=>[i,parseFloat(r[2])]),'mph','Hourly gust trend (reported forecast values)')+table(['Time','Wind','Gust','From','Air','Wave'],hours)+'<p class="muted">* Zero wave height is the reported grid value, not proof of calm water. Arrows show where wind blows toward; compass labels show where it comes from.</p>')}catch(e){put('weather',no(e));put('trip',no(e));put('summary',no(e));put('weekly',no(e))}})(),(async()=>{try{const j=await get(`https://api.weather.gov/alerts/active?point=${s[1]},${s[2]}`);put('alerts',j.features?.length?j.features.map(a=>`<p class="warn"><b>${esc(a.properties.event)}</b><br>${esc(a.properties.headline)}</p>`).join(''):'<p>No active alerts returned for this point at retrieval time. This does not establish safe conditions.</p>')}catch(e){put('alerts',no(e))}})()]);if(token===run){if($('opposition').textContent.startsWith('Loading'))put('opposition','');}if(token===run)$('status').textContent='Requests completed '+time.format(new Date())+' PT. Check each panel for availability.'} function seriesChart(rows,unit,label){const a=rows.filter(r=>Number.isFinite(r[1])&&/^\d{4}-\d{2}-\d{2}/.test(r[0]));if(a.length<2)return '';const lo=Math.min(0,...a.map(r=>r[1])),hi=Math.max(lo+.1,...a.map(r=>r[1])),x=t=>38+285*(Number(t.slice(11,13))*60+Number(t.slice(14,16)))/1440,y=v=>120-94*(v-lo)/(hi-lo);return `<p class="muted">${esc(label)}</p><svg viewBox="0 0 340 150" role="img" aria-label="${esc(label)}"><line x1="38" y1="${y(0)}" x2="323" y2="${y(0)}" stroke="#658698" stroke-dasharray="4 4"/><text x="0" y="26" fill="#a9c4d2" font-size="10">${hi.toFixed(1)} ${unit}</text><text x="0" y="120" fill="#a9c4d2" font-size="10">${lo.toFixed(1)}</text><polyline fill="none" stroke="#64d7df" stroke-width="2" points="${a.map(r=>x(r[0])+','+y(r[1])).join(' ')}"/>${[0,6,12,18,24].map((h,i)=>`<text x="${38+285*h/24}" y="140" text-anchor="${i===0?'start':i===4?'end':'middle'}" font-size="9" fill="#a9c4d2">${['12 AM','6 AM','12 PM','6 PM','12 AM'][i]}</text>`).join('')}</svg>`}async function extraWater(s,put){try{const j=await get(meta+'?type=physocean');const stations=nearest(j.stations||[],s).filter(a=>a.dist<=20).slice(0,3);if(!stations.length)throw Error('No nearby physical oceanography station');const rows=await Promise.all(['water_temperature','salinity'].map(async product=>{for(const a of stations){try{const u=api+'?'+new URLSearchParams({station:a.id,product,date:'latest',time_zone:'lst_ldt',units:'english',format:'json',application:'JLoveallFishingMarineCast'}),j=await get(u),r=j.data?.at(-1);if(r&&r.v!=null&&r.v!==''&&Number.isFinite(Number(r.v)))return [product==='salinity'?'Salinity':'Water temp',r.v+(product==='salinity'?' PSU':' °F'),a.name+' ('+a.dist.toFixed(1)+' mi)',r.t+' PT'];}catch{}}return [product==='salinity'?'Salinity':'Water temp','Unavailable','—','—']}));put('waterdata',table(['Reading','Value','Station','Observed'],rows))}catch(e){put('waterdata',no(e))}}async function extraAstro(s,day,put){const d=new Date(day+'T12:00:00Z'),age=((d-Date.UTC(2000,0,6,18,14))/864e5%29.530588853+29.530588853)%29.530588853,phase=['New moon','Waxing crescent','First quarter','Waxing gibbous','Full moon','Waning gibbous','Last quarter','Waning crescent'][Math.round(age/29.530588853*8)%8];let sun='Sunrise and sunset unavailable.';try{const j=await get('https://api.sunrise-sunset.org/json?'+new URLSearchParams({lat:s[1],lng:s[2],date:day,formatted:'0'}));if(j.status!=='OK')throw Error(j.status);sun='Sunrise: '+time.format(new Date(j.results.sunrise))+' · Sunset: '+time.format(new Date(j.results.sunset))}catch{}put('astrodata','<p>'+esc(sun)+'</p><p>Approximate moon phase: '+esc(phase)+'</p><p class="muted">Sun times: sunrise-sunset.org. Moon phase calculated using mean lunar cycle; approximate.</p>')}
+function chart(rows,unit,label){const a=rows.filter(r=>Number.isFinite(r[1]));if(a.length<2)return '';const lo=Math.min(0,...a.map(r=>r[1])),hi=Math.max(lo+1,...a.map(r=>r[1]));const ts=a.map(r=>typeof r[0]==='number'?NaN:Date.parse(String(r[0]).replace(' ','T')+'Z'));const valid=ts.every(Number.isFinite)&&ts.at(-1)>ts[0];const x=i=>45+270*(valid?(ts[i]-ts[0])/(ts.at(-1)-ts[0]):i/(a.length-1)),y=v=>110-85*(v-lo)/(hi-lo);return `<p class="muted">${esc(label)}</p><svg viewBox="0 0 340 135" role="img" aria-label="${esc(label)}"><line x1="45" y1="${y(0)}" x2="315" y2="${y(0)}" stroke="#658698" stroke-dasharray="4 4"/><text x="0" y="25" fill="#a9c4d2" font-size="10">${hi.toFixed(1)} ${unit}</text><text x="0" y="110" fill="#a9c4d2" font-size="10">${lo.toFixed(1)}</text><polyline fill="none" stroke="#64d7df" stroke-width="2" stroke-dasharray="4 3" points="${a.map((r,i)=>x(i)+','+y(r[1])).join(' ')}"/>${a.map((r,i)=>`<circle cx="${x(i)}" cy="${y(r[1])}" r="4" fill="#64d7df"><title>${esc(r[0])}: ${r[1]} ${unit}</title></circle>`).join('')}</svg>`}let fav=[];try{fav=JSON.parse(localStorage.getItem('marineIQfavorites')||'[]');if(!Array.isArray(fav))fav=[]}catch{}function renderFav(){$('favorites').replaceChildren();for(const i of fav){if(!spots[i])continue;const b=document.createElement('button');b.textContent=spots[i][0];b.onclick=()=>{$('spot').value=i;$('spot').onchange()};$('favorites').append(b)}$('favorite').textContent=fav.includes(+$('spot').value)?'Remove favorite':'Save favorite'}$('favorite').onclick=()=>{const i=+$('spot').value;fav=fav.includes(i)?fav.filter(x=>x!==i):[...fav,i];try{localStorage.setItem('marineIQfavorites',JSON.stringify(fav))}catch{}renderFav()};renderFav();let map;if(window.L){map=L.map('map').setView([38,-122.1],9);L.tileLayer('https://tile.openstreetmap.org/{z}/{x}/{y}.png',{maxZoom:19,attribution:'&copy; OpenStreetMap contributors'}).addTo(map);spots.forEach((s,i)=>L.marker([s[1],s[2]]).addTo(map).bindTooltip(s[0]).on('click',()=>{$('spot').value=i;$('spot').onchange()}))}else $('map').textContent='Map unavailable; use the location list.';$('load').onclick=load;$('spot').onchange=()=>{$('current').value='';renderFav();if(map)map.panTo(spots[+$('spot').value].slice(1,3));load()};$('day').onchange=load;$('current').onchange=load;load();</script><script>if("serviceWorker" in navigator && location.protocol === "https:"){navigator.serviceWorker.register("./sw.js").catch(console.warn)}</script></html>

diff --git a/sw.js b/sw.js
@@ -1,1 +1,1 @@
-const CACHE='marine-iq-v5'; const SHELL=['./','./index.html','./manifest.webmanifest','./icon-192.png','./icon-512.png','./brand.jpg']; self.addEventListener('install',e=>e.waitUntil(caches.open(CACHE).then(c=>c.addAll(SHELL)).then(()=>self.skipWaiting()))); self.addEventListener('activate',e=>e.waitUntil(caches.keys().then(ks=>Promise.all(ks.filter(k=>k.startsWith('marine-iq-')&&k!==CACHE).map(k=>caches.delete(k)))).then(()=>self.clients.claim()))); self.addEventListener('fetch',e=>{if(e.request.method!=='GET'||new URL(e.request.url).origin!==self.location.origin)return; if(e.request.mode==='navigate'){e.respondWith(fetch(e.request).catch(()=>caches.match('./index.html')));return;} if(SHELL.some(s=>new URL(s,self.location.href).href===e.request.url))e.respondWith(caches.match(e.request).then(r=>r||fetch(e.request)));});
+const CACHE='marine-iq-v6'; const SHELL=['./','./index.html','./manifest.webmanifest','./icon-192.png','./icon-512.png','./brand.jpg?v=6']; self.addEventListener('install',e=>e.waitUntil(caches.open(CACHE).then(c=>c.addAll(SHELL)).then(()=>self.skipWaiting()))); self.addEventListener('activate',e=>e.waitUntil(caches.keys().then(ks=>Promise.all(ks.filter(k=>k.startsWith('marine-iq-')&&k!==CACHE).map(k=>caches.delete(k)))).then(()=>self.clients.claim()))); self.addEventListener('fetch',e=>{if(e.request.method!=='GET'||new URL(e.request.url).origin!==self.location.origin)return; if(e.request.mode==='navigate'){e.respondWith(fetch(e.request).catch(()=>caches.match('./index.html')));return;} if(SHELL.some(s=>new URL(s,self.location.href).href===e.request.url))e.respondWith(caches.match(e.request).then(r=>r||fetch(e.request)));});
